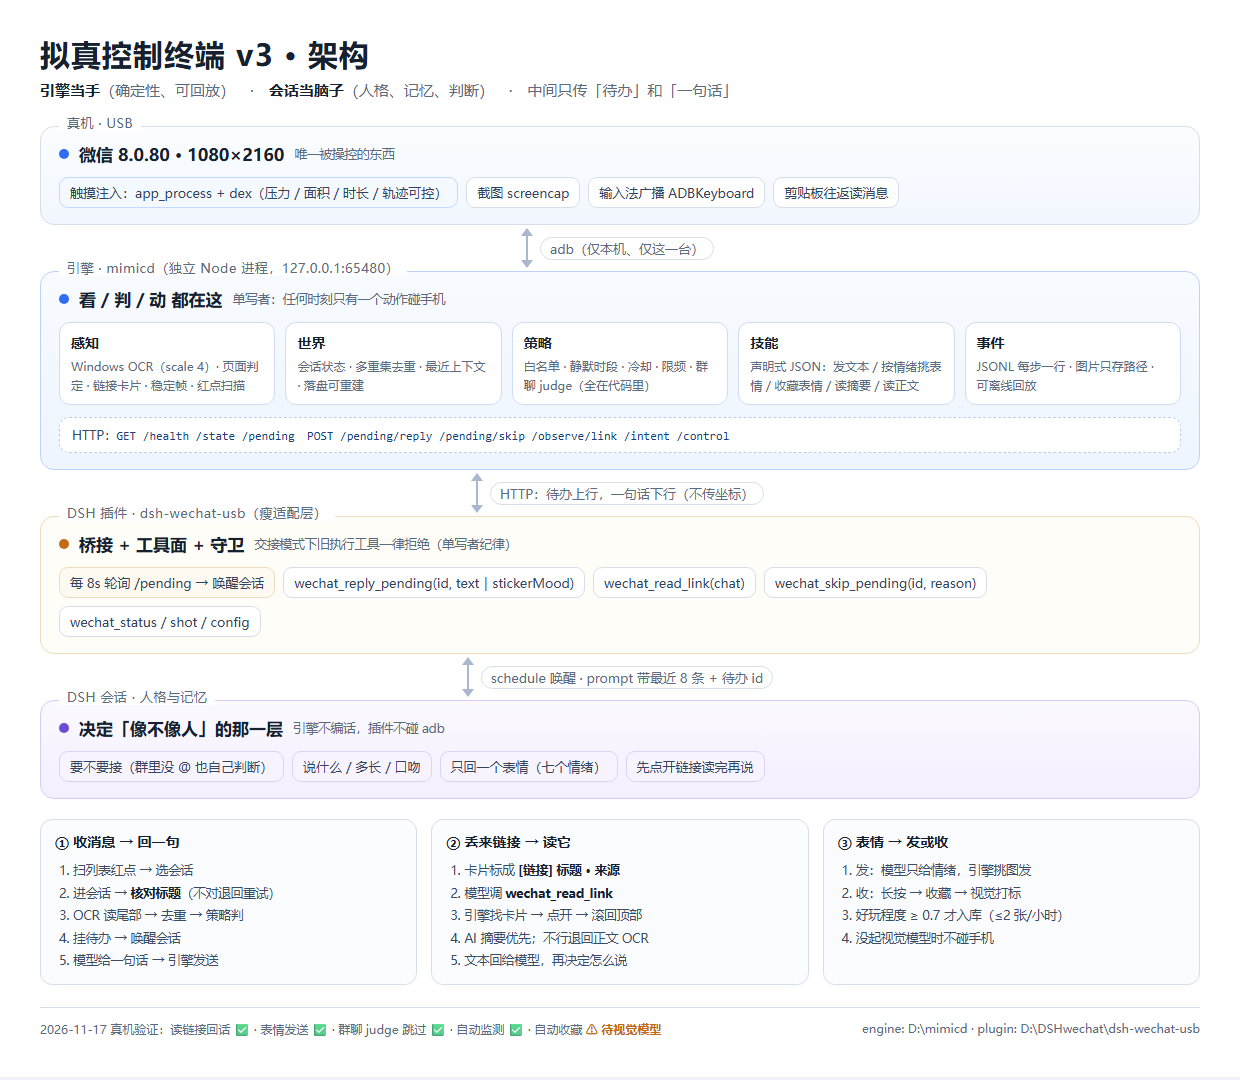
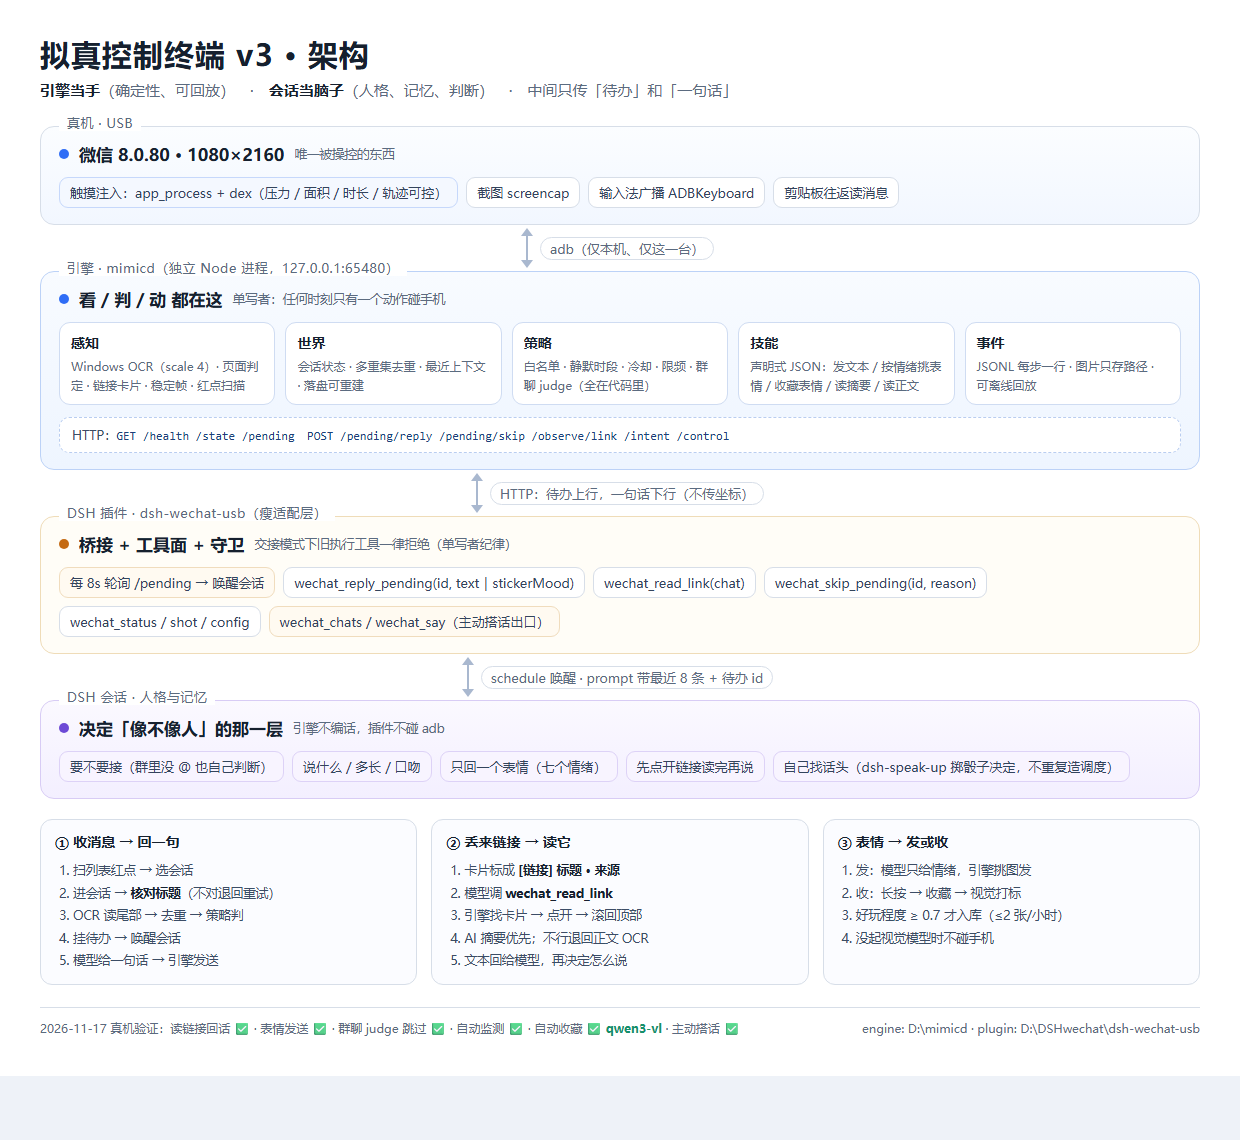
docs: v3 补主动搭话（dsh-speak-up + /say）与自动收藏的真机结果；架构图同步

diff --git a/docs/architecture-v3.html b/docs/architecture-v3.html
@@ -106,6 +106,7 @@
       <span class="chip">wechat_read_link(chat)</span>
       <span class="chip">wechat_skip_pending(id, reason)</span>
       <span class="chip">wechat_status / shot / config</span>
+      <span class="chip o">wechat_chats / wechat_say（主动搭话出口）</span>
     </div>
   </div>
 
@@ -120,6 +121,7 @@
       <span class="chip v">说什么 / 多长 / 口吻</span>
       <span class="chip v">只回一个表情（七个情绪）</span>
       <span class="chip v">先点开链接读完再说</span>
+      <span class="chip v">自己找话头（dsh-speak-up 掷骰子决定，不重复造调度）</span>
     </div>
   </div>
 
@@ -157,7 +159,7 @@
   </div>
 
   <div class="foot">
-    <span>2026-11-17 真机验证：读链接回话 <span class="ok">✅</span> · 表情发送 <span class="ok">✅</span> · 群聊 judge 跳过 <span class="ok">✅</span> · 自动监测 <span class="ok">✅</span> · 自动收藏 <span class="warn">⚠ 待视觉模型</span></span>
+    <span>2026-11-17 真机验证：读链接回话 <span class="ok">✅</span> · 表情发送 <span class="ok">✅</span> · 群聊 judge 跳过 <span class="ok">✅</span> · 自动监测 <span class="ok">✅</span> · 自动收藏 <span class="ok">✅ qwen3-vl</span> · 主动搭话 <span class="ok">✅</span></span>
     <span>engine: <repo> · plugin: <dsh-wechat-usb></span>
   </div>
 </div>

diff --git a/docs/architecture-v3.md b/docs/architecture-v3.md
@@ -106,7 +106,20 @@
 - **收**：对方发来贴纸时自动收藏（长按 → 收藏），视觉打标（qwen3-vl）判断情绪 / 标签 / 好玩程度，`funny ≥ 0.7` 才入库，每小时最多 2 张。
   ⚠ 本机 Ollama 没起时**不会**去碰手机：启动时探一次 `127.0.0.1:11434`，不可用就只记一条原因。
 
-## 5. HTTP 契约（127.0.0.1:65480）
+## 5. 主动搭话（不是重新造调度）
+
+「什么时候开口」交给现成的 **dsh-speak-up** 插件：它按间隔掷骰子（峰/谷命中线、没中加成、安静时段、搭话冷却都在它那边），
+掷中之后往目标会话里投一句「好久没人跟我说话了…」。我们只补两件事：
+
+1. **出口**：引擎 `POST /say {chat, text|stickerMood}` —— 安静时段、每小时 2 次、每天 8 次、两次间隔 ≥20 分钟、
+   群聊开关（`policy.proactive.allowGroups`）五道闸都在引擎侧，拒绝会带原因回给模型。
+2. **挑会话**：插件工具 `wechat_chats`（最近聊过谁）+ `wechat_say`（发出去）。
+
+⚠ 已知边界（插件自己的设计，README 写明）：**它只往「活着的」会话投递，不会唤醒冷会话**。
+所以要么把目标会话（syotenyuyu 那个）在 GUI 里开着，要么退回到「有消息才动」。
+要「一定自己开口」的话，得让 bridge 定时唤醒一次（那才开始有点像自己写调度）。
+
+## 6. HTTP 契约（127.0.0.1:65480）
 
 | 方法 | 路径 | 说明 |
 |---|---|---|
@@ -120,9 +133,10 @@
 | POST | `/pending/inject` | **测试用**：不等真消息也能验整条链（需启动加 `--allow-pending-inject`） |
 | POST | `/observe/link` | `{chat, which?}` → 读一条链接，返回标题与正文 |
 | POST | `/intent` | `{skill, params}` → 直接跑一个技能（走同一把设备锁） |
+| POST | `/say` | `{chat, text?/stickerMood?}` → 主动搭话（五道闸） |
 | POST | `/control` | `pause`/`resume`/`dry_run`/`wet`/`tick` |
 
-## 6. 今天已真机验证过的（2026-11-17）
+## 7. 今天已真机验证过的（2026-11-17）
 
 | 链路 | 结果 | 证据 |
 |---|---|---|
@@ -132,19 +146,21 @@
 | 链接卡片进世界模型 | ✅ | `note link-card {title:"播放：1·2万", source:"哔哩哔哩", marked:true}` |
 | 进错会话重试 | ✅（单测） | 标题对不上 → 退回列表重扫重点，最多 3 次，仍不对才放弃 |
 | 自动监测循环 | ✅ | 20s 一轮；进错会话、点不开都落 reason，下一轮继续 |
-| 自动收藏表情 | ⚠ 未真机 | 本机没起 Ollama，真机只验过负向路径（不可用时不碰手机） |
+| 自动收藏表情 | ✅ | 起 Ollama（qwen3-vl:4b-instruct），收藏 3 张并打标：无语/0.7/无奈、惊讶/0.8/震惊；单次打标 3.6s |
+| 主动搭话出口 | ✅ | 主模型按用户要求用 `wechat_say` 往群里发表情，`send.succeeded {via:"proactive"}` |
+| 浮层自救 | ✅ | 收藏中途被重启留下的长按菜单挡住 → 下一轮按返回收掉继续（单测覆盖） |
 
-## 7. 已知限制（诚实清单）
+## 8. 已知限制（诚实清单）
 
 1. **OCR 是主感知**：微信 a11y 全封，只能截图 OCR；群聊昵称小字常被滤掉，个别消息会串行或读错字。
 2. **读链接慢**：30–55s，期间设备被独占，新的 tick 会让路。
-3. **自动收藏依赖本机视觉模型**（qwen3-vl @ Ollama），没起就只读不收藏。
+3. **自动收藏依赖本机视觉模型**（qwen3-vl @ Ollama，现在起着；没起时引擎只记一条原因、不碰手机）。
 4. **只支持一台手机、一个微信**；多开/多账号未做。
 5. **长文只读前两屏**（人有扫读习惯，全文 OCR 不划算）；要引用原文再单独加。
-6. **主动搭话**（M3 的注意力调度）还没接：现在是「有消息才动」。
+6. **主动搭话**接的是 dsh-speak-up，但它只投「活着的」会话（见 §5）；冷会话下不会自己开口。
 7. 插件改 `lib/*.js` 后要在设置里重载插件（DSH 不支持插件代码热更），引擎可以随便重启。
 
-## 8. 怎么跑
+## 9. 怎么跑
 
 ```bash
 # 引擎（独占手机）
